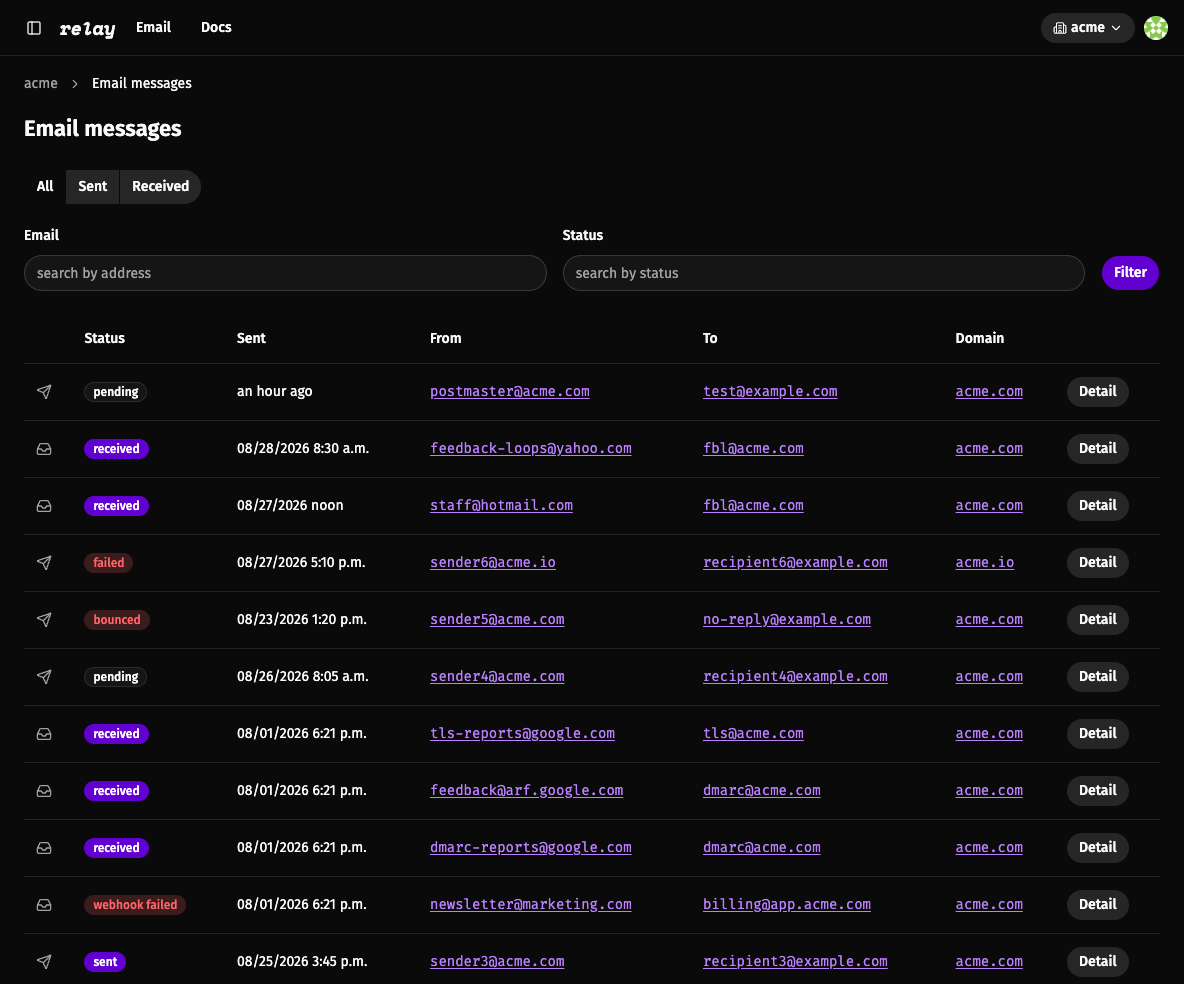
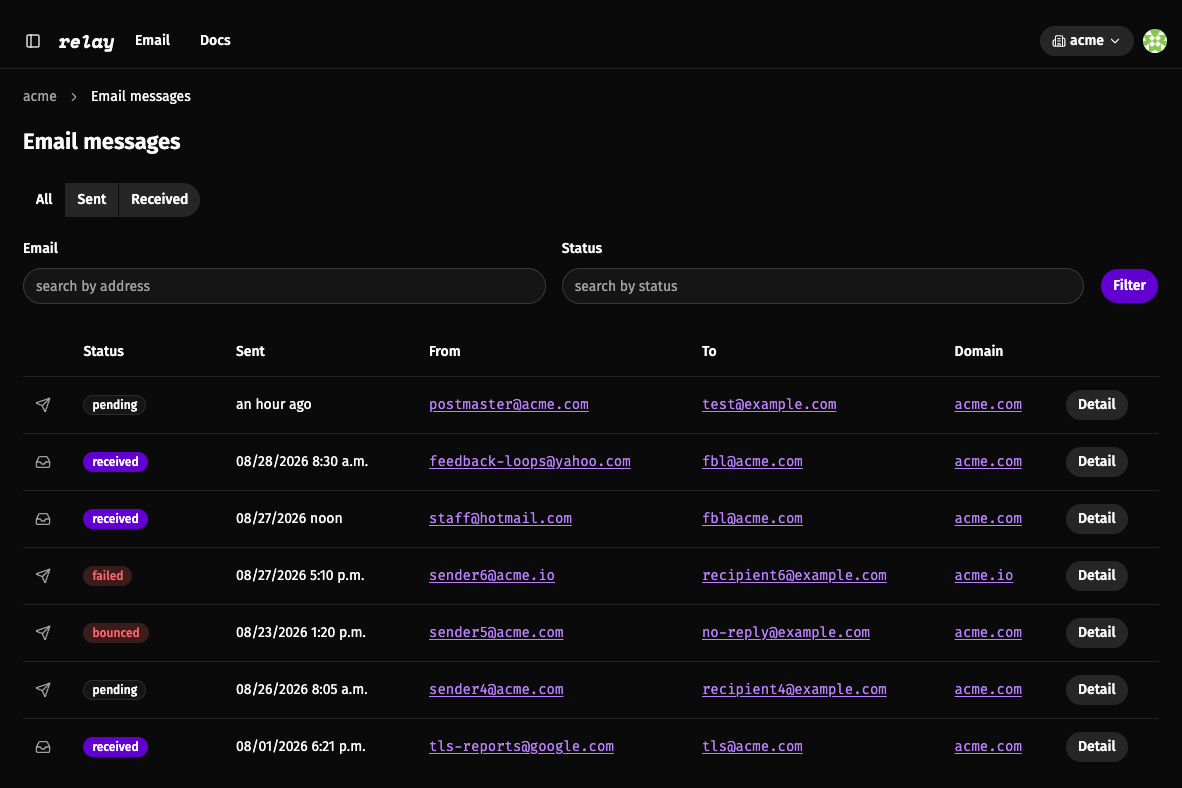
Refine landing page per review
- Drop the "soon" qualifier from the ARC badge and link the Standard
  Webhooks badge to the specification site.
- Recrop both email-log screenshots to an exact 3:2 ratio (1182x788)
  and inset them from the browser frame with padding.
- Merge the code-example tabs into Django and Next, each showing
  sending and receiving; the Django send example uses the MAILERS
  setting introduced in Django 6.1.
- Highlight the code examples with highlight.js, themed per color
  scheme, and restore the card treatment around each code block.

diff --git a/root/templates/start.html b/root/templates/start.html
@@ -3,6 +3,19 @@
 {% block topbar %}{% endblock %}
 {% block chrome %}{% endblock %}
 {% block title %}{% translate "relay: communication as a service" %}{% endblock %}
+{% block meta_tags %}
+  {{ block.super }}
+  <link
+    rel="stylesheet"
+    href="https://cdn.jsdelivr.net/gh/highlightjs/cdn-release@11.11.1/build/styles/github.min.css"
+    media="(prefers-color-scheme: light)"
+  >
+  <link
+    rel="stylesheet"
+    href="https://cdn.jsdelivr.net/gh/highlightjs/cdn-release@11.11.1/build/styles/github-dark.min.css"
+    media="(prefers-color-scheme: dark)"
+  >
+{% endblock %}
 {% block content %}
   <div class="start relative isolate -mx-6 sm:-mx-8">
     <div
@@ -181,14 +194,16 @@
               <span class="size-2.5 rounded-full bg-muted-foreground/25"></span>
               <span class="size-2.5 rounded-full bg-muted-foreground/25"></span>
             </div>
-            <img
-              src="{% static 'img/email-overview.png' %}"
-              alt="relay email message list with filters and delivery statuses"
-              width="1184"
-              height="984"
-              loading="lazy"
-              class="block w-full h-auto"
-            >
+            <div class="p-1.5">
+              <img
+                src="{% static 'img/email-overview.png' %}"
+                alt="relay email message list with filters and delivery statuses"
+                width="1182"
+                height="788"
+                loading="lazy"
+                class="block w-full h-auto"
+              >
+            </div>
           </div>
           <figcaption class="text-sm text-muted-foreground text-center m-0">
             {% blocktranslate trimmed %}
@@ -203,14 +218,16 @@
               <span class="size-2.5 rounded-full bg-muted-foreground/25"></span>
               <span class="size-2.5 rounded-full bg-muted-foreground/25"></span>
             </div>
-            <img
-              src="{% static 'img/email-detail.png' %}"
-              alt="relay message detail with transmission log, headers, and email body"
-              width="1184"
-              height="984"
-              loading="lazy"
-              class="block w-full h-auto"
-            >
+            <div class="p-1.5">
+              <img
+                src="{% static 'img/email-detail.png' %}"
+                alt="relay message detail with transmission log, headers, and email body"
+                width="1182"
+                height="788"
+                loading="lazy"
+                class="block w-full h-auto"
+              >
+            </div>
           </div>
           <figcaption class="text-sm text-muted-foreground text-center m-0">
             {% blocktranslate trimmed %}
@@ -249,57 +266,49 @@
             <button
               type="button"
               role="tab"
-              id="stack-ex-django-send"
-              aria-controls="stack-ex-django-send-panel"
+              id="stack-ex-django"
+              aria-controls="stack-ex-django-panel"
               aria-selected="true"
               tabindex="0"
             >
-              {% translate "django · send"|capfirst %}
+              Django
             </button>
             <button
               type="button"
               role="tab"
-              id="stack-ex-django-receive"
-              aria-controls="stack-ex-django-receive-panel"
+              id="stack-ex-next"
+              aria-controls="stack-ex-next-panel"
               aria-selected="false"
               tabindex="-1"
             >
-              {% translate "django · receive"|capfirst %}
-            </button>
-            <button
-              type="button"
-              role="tab"
-              id="stack-ex-next-send"
-              aria-controls="stack-ex-next-send-panel"
-              aria-selected="false"
-              tabindex="-1"
-            >
-              {% translate "next · send"|capfirst %}
-            </button>
-            <button
-              type="button"
-              role="tab"
-              id="stack-ex-next-receive"
-              aria-controls="stack-ex-next-receive-panel"
-              aria-selected="false"
-              tabindex="-1"
-            >
-              {% translate "next · receive"|capfirst %}
+              Next
             </button>
           </nav>
           <div
             role="tabpanel"
-            id="stack-ex-django-send-panel"
-            aria-labelledby="stack-ex-django-send"
+            id="stack-ex-django-panel"
+            aria-labelledby="stack-ex-django"
             tabindex="-1"
             aria-selected="true"
           >
-            <pre class="m-0 overflow-x-auto font-mono text-sm leading-relaxed"><code># settings.py
-EMAIL_HOST = "smtp.relay.example.com"
-EMAIL_PORT = 465
-EMAIL_USE_SSL = True
-EMAIL_HOST_USER = "acme"
-EMAIL_HOST_PASSWORD = "&lt;credential key&gt;"
+            <div class="flex flex-col gap-6">
+              <div class="flex flex-col gap-3">
+                <h3 class="m-0 text-xs font-mono uppercase tracking-widest text-muted-foreground">
+                  {% translate "sending"|capfirst %}
+                </h3>
+                <pre class="m-0 overflow-x-auto rounded-xl border border-border bg-muted/50 p-5 font-mono text-sm leading-relaxed"><code class="language-python"># settings.py
+MAILERS = {
+    "default": {
+        "BACKEND": "django.core.mail.backends.smtp.EmailBackend",
+        "OPTIONS": {
+            "host": "smtp.relay.example.com",
+            "port": 465,
+            "use_ssl": True,
+            "username": "acme",
+            "password": "&lt;credential key&gt;",
+        },
+    },
+}
 
 # anywhere in your app
 from django.core.mail import send_mail
@@ -310,16 +319,12 @@ send_mail(
     "billing@acme.com",
     ["kim@example.net"],
 )</code></pre>
-          </div>
-          <div
-            role="tabpanel"
-            id="stack-ex-django-receive-panel"
-            aria-labelledby="stack-ex-django-receive"
-            tabindex="-1"
-            aria-selected="false"
-            hidden
-          >
-            <pre class="m-0 overflow-x-auto font-mono text-sm leading-relaxed"><code># views.py
+              </div>
+              <div class="flex flex-col gap-3">
+                <h3 class="m-0 text-xs font-mono uppercase tracking-widest text-muted-foreground">
+                  {% translate "receiving"|capfirst %}
+                </h3>
+                <pre class="m-0 overflow-x-auto rounded-xl border border-border bg-muted/50 p-5 font-mono text-sm leading-relaxed"><code class="language-python"># views.py
 import json
 from django.http import HttpRequest, HttpResponse
 from django.views.decorators.csrf import csrf_exempt
@@ -332,16 +337,23 @@ def email_received(request: HttpRequest) -&gt; HttpResponse:
     if event["type"] == "email.received":
         ...  # download event["body_url"]
     return HttpResponse(status=204)</code></pre>
+              </div>
+            </div>
           </div>
           <div
             role="tabpanel"
-            id="stack-ex-next-send-panel"
-            aria-labelledby="stack-ex-next-send"
+            id="stack-ex-next-panel"
+            aria-labelledby="stack-ex-next"
             tabindex="-1"
             aria-selected="false"
             hidden
           >
-            <pre class="m-0 overflow-x-auto font-mono text-sm leading-relaxed"><code>import nodemailer from "nodemailer";
+            <div class="flex flex-col gap-6">
+              <div class="flex flex-col gap-3">
+                <h3 class="m-0 text-xs font-mono uppercase tracking-widest text-muted-foreground">
+                  {% translate "sending"|capfirst %}
+                </h3>
+                <pre class="m-0 overflow-x-auto rounded-xl border border-border bg-muted/50 p-5 font-mono text-sm leading-relaxed"><code class="language-typescript">import nodemailer from "nodemailer";
 
 const transport = nodemailer.createTransport({
   host: "smtp.relay.example.com",
@@ -356,16 +368,12 @@ await transport.sendMail({
   subject: "Invoice 42",
   text: "Your invoice is attached.",
 });</code></pre>
-          </div>
-          <div
-            role="tabpanel"
-            id="stack-ex-next-receive-panel"
-            aria-labelledby="stack-ex-next-receive"
-            tabindex="-1"
-            aria-selected="false"
-            hidden
-          >
-            <pre class="m-0 overflow-x-auto font-mono text-sm leading-relaxed"><code>// app/api/email/route.ts
+              </div>
+              <div class="flex flex-col gap-3">
+                <h3 class="m-0 text-xs font-mono uppercase tracking-widest text-muted-foreground">
+                  {% translate "receiving"|capfirst %}
+                </h3>
+                <pre class="m-0 overflow-x-auto rounded-xl border border-border bg-muted/50 p-5 font-mono text-sm leading-relaxed"><code class="language-typescript">// app/api/email/route.ts
 import { Webhook } from "standardwebhooks";
 
 export async function POST(req: Request) {
@@ -381,6 +389,8 @@ export async function POST(req: Request) {
   }
   return new Response(null, { status: 204 });
 }</code></pre>
+              </div>
+            </div>
           </div>
         </div>
       </div>
@@ -460,12 +470,17 @@ export async function POST(req: Request) {
             >TLS-RPT</a>
           </li>
           <li><span class="badge" data-variant="outline" data-size="sm">FBL</span></li>
+          <li><span class="badge" data-variant="outline" data-size="sm">ARC</span></li>
           <li>
-            <span class="badge" data-variant="outline" data-size="sm">ARC · <span
-                class="text-muted-foreground"
-              >{% translate "soon" %}</span></span>
+            <a
+              href="https://standardwebhooks.com"
+              target="_blank"
+              rel="noopener"
+              class="badge transition-colors hover:text-foreground"
+              data-variant="outline"
+              data-size="sm"
+            >Standard Webhooks</a>
           </li>
-          <li><span class="badge" data-variant="outline" data-size="sm">Standard Webhooks</span></li>
         </ul>
         <p class="m-0 text-muted-foreground leading-relaxed max-w-2xl">
           {% blocktranslate trimmed %}
@@ -576,6 +591,11 @@ export async function POST(req: Request) {
       backdrop-filter: blur(8px);
       -webkit-backdrop-filter: blur(8px);
       background-color: color-mix(in srgb, var(--color-card) 75%, transparent);
+    }
+
+    .start pre code.hljs {
+      padding: 0;
+      background: transparent;
     }
 
     .landing-accent {
@@ -708,5 +728,11 @@ export async function POST(req: Request) {
       slider.addEventListener("input", update);
       update();
     }
+  </script>
+  <script src="https://cdn.jsdelivr.net/gh/highlightjs/cdn-release@11.11.1/build/highlight.min.js"></script>
+  <script>
+    document.querySelectorAll("pre code[class*='language-']").forEach((block) => {
+      hljs.highlightElement(block);
+    });
   </script>
 {% endblock %}

diff --git a/PRODUCT.md b/PRODUCT.md
@@ -73,9 +73,10 @@ Developer workflow, confirmed from product code and copy:
   pending real quotes; real email-log screenshots captured from the product,
   overview and detail (`root/static/img/email-overview.png`,
   `root/static/img/email-detail.png`);
-  a real SMTP first-send snippet; and a "no black box" trust band (SPF,
-  DKIM, DMARC, MTA-STS, TLS-RPT, FBL, ARC marked as soon, Standard
-  Webhooks) that carries the
+  a real code-example tabs section (Django and Next, sending and
+  receiving each, the Django send using the MAILERS setting); and a "no black box" trust band (SPF,
+  DKIM, DMARC, MTA-STS, TLS-RPT, FBL, ARC, Standard Webhooks linked to
+  the spec) that carries the
   open-source pledge as one muted line instead of a full-bleed panel.
 - VoIP and further communication services are planned; email is the first
   service on the platform.
